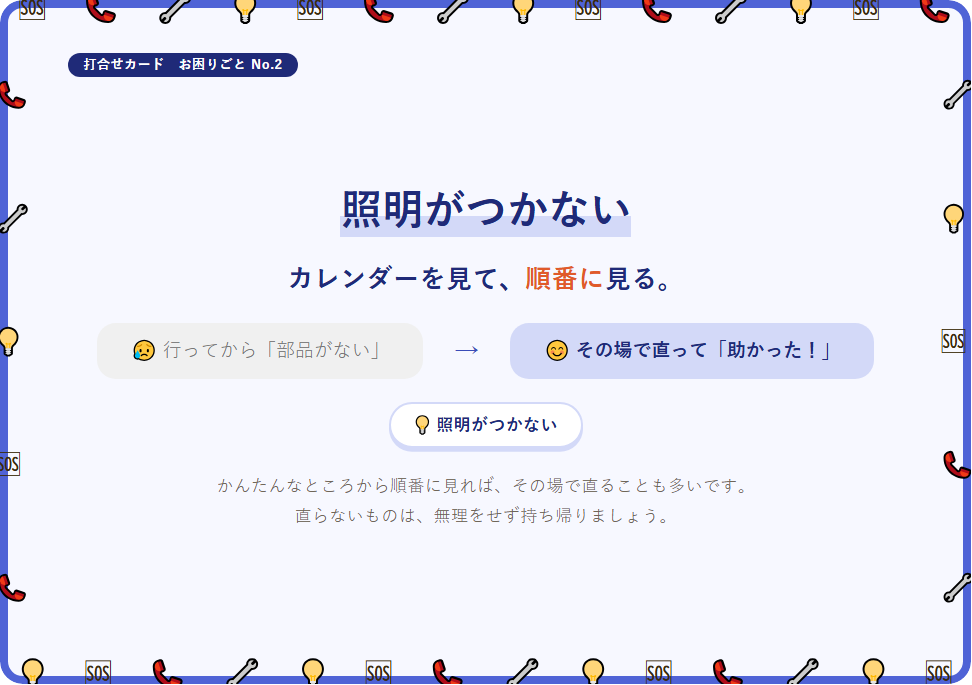
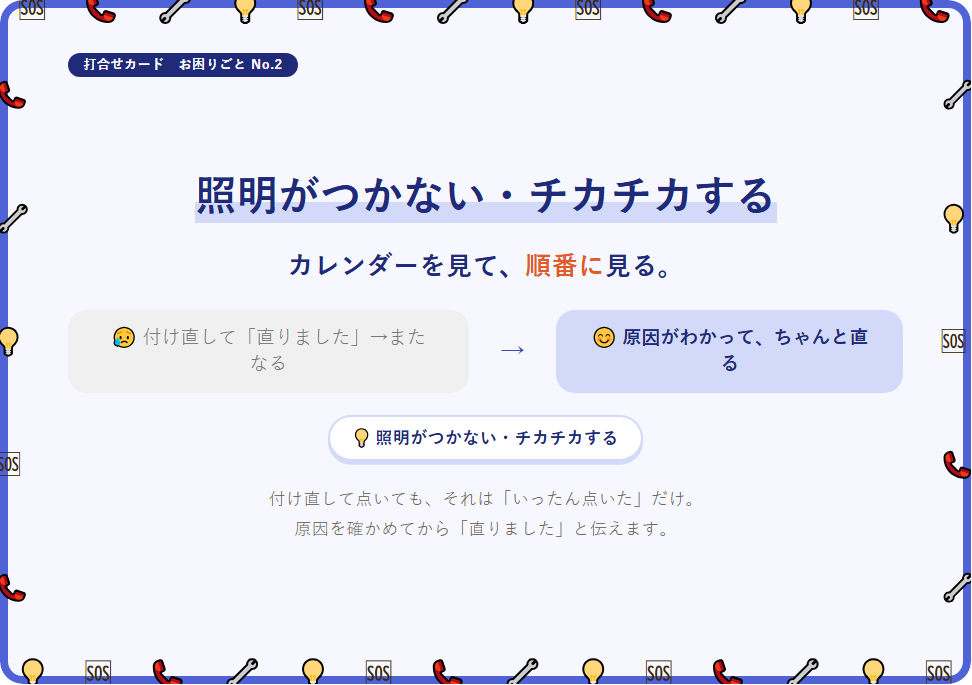
その場しのぎではなく安心を：サービスNo.4に原因確認と正直な伝え方、お困りごと照明にチカチカの確かめ方
Claude-Session: https://claude.ai/code/session_01SZNrdcyrN7aKEt1o21LvYk

Changed region(s): [[0.1852, 0.2453, 0.9259, 0.7971], [0.0926, 0.4599, 0.4321, 0.5518]]

diff --git a/tools/cards-data.js b/tools/cards-data.js
@@ -783,16 +783,16 @@ module.exports = [
   why:{ msg:'いちばん大事なのは、<b>現状確認</b>。',
         ng:'😥 よく見ずに「買い替えですね」', ok:'😊「ちゃんと見てくれた」',
         chips:['👀 現状確認','🔧 修理か買い替えか','💬 質問','📝 提案（見積り）'],
-        one:'まず今の状態をしっかり見る。ここがずれると、提案も見積りもずれます。<br>分からないときは、その場ですぐ相談。' },
+        one:'その場しのぎではなく、「ヤハタデンキなら安心」と思ってもらうこと。<br>そのために、まず今の状態と原因をしっかり確かめます。' },
   how:{ h:'お困りごと訪問の流れ',
-        roles:[ {ic:'👀',n:'現状確認',t:'今の状態を見る。分からないときは、すぐ相談',bg:'#d9ebfa',k:'#164a7a'},
+        roles:[ {ic:'👀',n:'現状確認',t:'原因まで確かめる。「直りました」は原因がわかってから',bg:'#d9ebfa',k:'#164a7a'},
                 {ic:'🔧',n:'修理か買い替えか',t:'直せるか。年数・部品・費用で考える',bg:'#dcefd2',k:'#2b5a1e'},
                 {ic:'💬',n:'質問',t:'使い方・使う時間・困っていることを聞く',bg:'#fff1c2',k:'#7a4d10'},
                 {ic:'📝',n:'提案（見積り）',t:'お客様に合うものを、見積りで出す',bg:'#e8dcf7',k:'#4a2a78'},
                 {ic:'🤝',n:'成約',t:'決まったら、見積書で成約に',bg:'#fde2cc',k:'#7a3a0e'} ] },
   what:{ h:'毎回やること',
         memo:['📅 伺う前に、カレンダーを見る','事務が受けた内容を確かめてから出発。'],
-        vals:['📞 分からないことは、その場で相談','📸 型番の銘板を写真に残す','📝 日報に、症状と対応を書く'] }
+        vals:['🙏 原因がわからないときは正直に伝えて、すぐ相談','📝 日報は「原因」と「やったこと」を分けて書く','📸 型番の銘板を写真に残す'] }
 },
 { no:1, who:'trouble', title:'テレビがつかない・映らない',
   why:{ msg:'カレンダーを見て、<b>順番に</b>見る。',
@@ -809,20 +809,20 @@ module.exports = [
                  {t:'✅ その場でできること',c:'leaf',items:['リモコンの電池・入力切替の直し','アンテナ線の差し直し・チャンネル設定']},
                  {t:'📋 持ち帰ること',c:'#b33',items:['電源が入らない → 修理か買い替えの見積','アンテナ・ブースター → 工事スタッフへ']} ] }
 },
-{ no:2, who:'trouble', title:'照明がつかない',
+{ no:2, who:'trouble', title:'照明がつかない・チカチカする',
   why:{ msg:'カレンダーを見て、<b>順番に</b>見る。',
-        ng:'😥 行ってから「部品がない」', ok:'😊 その場で直って「助かった！」',
-        chips:['💡 照明がつかない'],
-        one:'かんたんなところから順番に見れば、その場で直ることも多いです。<br>直らないものは、無理をせず持ち帰りましょう。' },
+        ng:'😥 付け直して「直りました」→またなる', ok:'😊 原因がわかって、ちゃんと直る',
+        chips:['💡 照明がつかない・チカチカする'],
+        one:'付け直して点いても、それは「いったん点いた」だけ。<br>原因を確かめてから「直りました」と伝えます。' },
   how:{ h:'現地で見る順番',
-        roles:[ {ic:'1⃣',n:'壁のスイッチ',t:'入れたままか',bg:'#d9ebfa',k:'#164a7a'},
-                {ic:'2⃣',n:'リモコン',t:'電池と、チャンネル（ほかの部屋と混ざっていないか）',bg:'#dcefd2',k:'#2b5a1e'},
-                {ic:'3⃣',n:'ブレーカー',t:'落ちていないか',bg:'#fff1c2',k:'#7a4d10'},
-                {ic:'4⃣',n:'器具',t:'何年目か（10年が目安）',bg:'#e8dcf7',k:'#4a2a78'} ] },
+        roles:[ {ic:'1⃣',n:'壁スイッチとリモコン',t:'スイッチは入れたままか。リモコンの電池とチャンネル',bg:'#d9ebfa',k:'#164a7a'},
+                {ic:'2⃣',n:'引掛シーリング',t:'ゆるみはないか。付け直して点いても、決めつけない',bg:'#dcefd2',k:'#2b5a1e'},
+                {ic:'3⃣',n:'器具の年数',t:'LEDも10年ほどで電源部が弱り、チカチカする',bg:'#fff1c2',k:'#7a4d10'},
+                {ic:'4⃣',n:'ブレーカー・配線',t:'配線の疑いがあるときは、工事スタッフへ',bg:'#e8dcf7',k:'#4a2a78'} ] },
   what:{ h:'確かめることと、その場の判断',
-        groups:[ {t:'📅 確かめること（カレンダー／その場で）',c:'#1f2a78',items:['全部の明かりか、その部屋だけか','壁のスイッチは入っているか','何年目か、チカチカしていたか']},
-                 {t:'✅ その場でできること',c:'leaf',items:['壁スイッチ・リモコンの電池・チャンネル合わせ','電球やグローの交換']},
-                 {t:'📋 持ち帰ること',c:'#b33',items:['器具の故障 → 買い替えの見積','配線・引掛シーリング → 工事スタッフへ（資格が要る）']} ] }
+        groups:[ {t:'📅 確かめること（カレンダー／その場で）',c:'#1f2a78',items:['全部の明かりか、その部屋だけか','いつから、どのくらいの間隔でチカチカするか','何年目の器具か']},
+                 {t:'✅ その場でできること',c:'leaf',items:['壁スイッチ・リモコンの電池・チャンネル合わせ','原因がわかった接触不良の直し']},
+                 {t:'📋 持ち帰ること',c:'#b33',items:['原因がはっきりしない → 正直に伝えて、すぐ相談','器具の寿命 → 買い替えの見積／配線 → 工事スタッフへ']} ] }
 },
 { no:3, who:'trouble', title:'エアコンが効かない・水がたれる',
   why:{ msg:'カレンダーを見て、<b>順番に</b>見る。',

diff --git a/card-trouble-2.html b/card-trouble-2.html
@@ -3,9 +3,9 @@
 <head>
 <meta charset="UTF-8">
 <meta name="viewport" content="width=1010">
-<title>打合せカード2 照明がつかない｜ヤハタ電機商会</title>
+<title>打合せカード2 照明がつかない・チカチカする｜ヤハタ電機商会</title>
 <meta property="og:type" content="website">
-<meta property="og:title" content="お困りごとカード　照明がつかない">
+<meta property="og:title" content="お困りごとカード　照明がつかない・チカチカする">
 <meta property="og:description" content="カレンダーを見て、順番に見る。">
 <meta property="og:image" content="https://yahatadennki.github.io/report/img/card-trouble-2.png">
 <meta property="og:url" content="https://yahatadennki.github.io/report/card-trouble-2.html">
@@ -100,11 +100,11 @@
 
   <div class="top"><span class="no">打合せカード　お困りごと No.2</span><span></span></div>
   <div class="front">
-    <h1><em>照明がつかない</em></h1>
+    <h1><em>照明がつかない・チカチカする</em></h1>
     <p class="msg">カレンダーを見て、<b>順番に</b>見る。</p>
-    <div class="vs"><div class="ng">😥 行ってから「部品がない」</div><div class="ar">→</div><div class="ok">😊 その場で直って「助かった！」</div></div>
-    <div class="chips"><span>💡 照明がつかない</span></div>
-    <p class="one">かんたんなところから順番に見れば、その場で直ることも多いです。<br>直らないものは、無理をせず持ち帰りましょう。</p>
+    <div class="vs"><div class="ng">😥 付け直して「直りました」→またなる</div><div class="ar">→</div><div class="ok">😊 原因がわかって、ちゃんと直る</div></div>
+    <div class="chips"><span>💡 照明がつかない・チカチカする</span></div>
+    <p class="one">付け直して点いても、それは「いったん点いた」だけ。<br>原因を確かめてから「直りました」と伝えます。</p>
   </div>
 </div>
 
@@ -115,21 +115,21 @@
   <div class="col-f l"><span>📞</span><span>🔧</span><span>💡</span><span>🆘</span><span>📞</span></div>
   <div class="col-f r"><span>🔧</span><span>💡</span><span>🆘</span><span>📞</span><span>🔧</span></div>
 
-  <div class="top"><span class="no">打合せカード　お困りごと No.2　照明がつかない</span><span></span></div>
+  <div class="top"><span class="no">打合せカード　お困りごと No.2　照明がつかない・チカチカする</span><span></span></div>
   <div class="back">
     <div class="box">
       <h2>現地で見る順番</h2>
-      <div class="roles"><div class="role" style="--rc:#d9ebfa;--rk:#164a7a"><span class="e">1⃣</span><div><div class="n">壁のスイッチ</div><div class="x">入れたままか</div></div></div><div class="role" style="--rc:#dcefd2;--rk:#2b5a1e"><span class="e">2⃣</span><div><div class="n">リモコン</div><div class="x">電池と、チャンネル（ほかの部屋と混ざっていないか）</div></div></div><div class="role" style="--rc:#fff1c2;--rk:#7a4d10"><span class="e">3⃣</span><div><div class="n">ブレーカー</div><div class="x">落ちていないか</div></div></div><div class="role" style="--rc:#e8dcf7;--rk:#4a2a78"><span class="e">4⃣</span><div><div class="n">器具</div><div class="x">何年目か（10年が目安）</div></div></div></div>
+      <div class="roles"><div class="role" style="--rc:#d9ebfa;--rk:#164a7a"><span class="e">1⃣</span><div><div class="n">壁スイッチとリモコン</div><div class="x">スイッチは入れたままか。リモコンの電池とチャンネル</div></div></div><div class="role" style="--rc:#dcefd2;--rk:#2b5a1e"><span class="e">2⃣</span><div><div class="n">引掛シーリング</div><div class="x">ゆるみはないか。付け直して点いても、決めつけない</div></div></div><div class="role" style="--rc:#fff1c2;--rk:#7a4d10"><span class="e">3⃣</span><div><div class="n">器具の年数</div><div class="x">LEDも10年ほどで電源部が弱り、チカチカする</div></div></div><div class="role" style="--rc:#e8dcf7;--rk:#4a2a78"><span class="e">4⃣</span><div><div class="n">ブレーカー・配線</div><div class="x">配線の疑いがあるときは、工事スタッフへ</div></div></div></div>
 
     </div>
     <div class="box">
       <h2>確かめることと、その場の判断</h2>
       <p class="gt" style="color:#1f2a78">📅 確かめること（カレンダー／その場で）</p>
-      <ul><li>全部の明かりか、その部屋だけか</li><li>壁のスイッチは入っているか</li><li>何年目か、チカチカしていたか</li></ul>
+      <ul><li>全部の明かりか、その部屋だけか</li><li>いつから、どのくらいの間隔でチカチカするか</li><li>何年目の器具か</li></ul>
       <p class="gt" style="color:var(--leaf)">✅ その場でできること</p>
-      <ul><li>壁スイッチ・リモコンの電池・チャンネル合わせ</li><li>電球やグローの交換</li></ul>
+      <ul><li>壁スイッチ・リモコンの電池・チャンネル合わせ</li><li>原因がわかった接触不良の直し</li></ul>
       <p class="gt" style="color:#b33">📋 持ち帰ること</p>
-      <ul><li>器具の故障 → 買い替えの見積</li><li>配線・引掛シーリング → 工事スタッフへ（資格が要る）</li></ul>
+      <ul><li>原因がはっきりしない → 正直に伝えて、すぐ相談</li><li>器具の寿命 → 買い替えの見積／配線 → 工事スタッフへ</li></ul>
     </div>
   </div>
 </div>

diff --git a/card-service-4.html b/card-service-4.html
@@ -104,7 +104,7 @@
     <p class="msg">いちばん大事なのは、<b>現状確認</b>。</p>
     <div class="vs"><div class="ng">😥 よく見ずに「買い替えですね」</div><div class="ar">→</div><div class="ok">😊「ちゃんと見てくれた」</div></div>
     <div class="chips"><span>👀 現状確認</span><span>🔧 修理か買い替えか</span><span>💬 質問</span><span>📝 提案（見積り）</span></div>
-    <p class="one">まず今の状態をしっかり見る。ここがずれると、提案も見積りもずれます。<br>分からないときは、その場ですぐ相談。</p>
+    <p class="one">その場しのぎではなく、「ヤハタデンキなら安心」と思ってもらうこと。<br>そのために、まず今の状態と原因をしっかり確かめます。</p>
   </div>
 </div>
 
@@ -119,13 +119,13 @@
   <div class="back">
     <div class="box">
       <h2>お困りごと訪問の流れ</h2>
-      <div class="roles sm"><div class="role" style="--rc:#d9ebfa;--rk:#164a7a"><span class="e">👀</span><div><div class="n">現状確認</div><div class="x">今の状態を見る。分からないときは、すぐ相談</div></div></div><div class="role" style="--rc:#dcefd2;--rk:#2b5a1e"><span class="e">🔧</span><div><div class="n">修理か買い替えか</div><div class="x">直せるか。年数・部品・費用で考える</div></div></div><div class="role" style="--rc:#fff1c2;--rk:#7a4d10"><span class="e">💬</span><div><div class="n">質問</div><div class="x">使い方・使う時間・困っていることを聞く</div></div></div><div class="role" style="--rc:#e8dcf7;--rk:#4a2a78"><span class="e">📝</span><div><div class="n">提案（見積り）</div><div class="x">お客様に合うものを、見積りで出す</div></div></div><div class="role" style="--rc:#fde2cc;--rk:#7a3a0e"><span class="e">🤝</span><div><div class="n">成約</div><div class="x">決まったら、見積書で成約に</div></div></div></div>
+      <div class="roles sm"><div class="role" style="--rc:#d9ebfa;--rk:#164a7a"><span class="e">👀</span><div><div class="n">現状確認</div><div class="x">原因まで確かめる。「直りました」は原因がわかってから</div></div></div><div class="role" style="--rc:#dcefd2;--rk:#2b5a1e"><span class="e">🔧</span><div><div class="n">修理か買い替えか</div><div class="x">直せるか。年数・部品・費用で考える</div></div></div><div class="role" style="--rc:#fff1c2;--rk:#7a4d10"><span class="e">💬</span><div><div class="n">質問</div><div class="x">使い方・使う時間・困っていることを聞く</div></div></div><div class="role" style="--rc:#e8dcf7;--rk:#4a2a78"><span class="e">📝</span><div><div class="n">提案（見積り）</div><div class="x">お客様に合うものを、見積りで出す</div></div></div><div class="role" style="--rc:#fde2cc;--rk:#7a3a0e"><span class="e">🤝</span><div><div class="n">成約</div><div class="x">決まったら、見積書で成約に</div></div></div></div>
 
     </div>
     <div class="box">
       <h2>毎回やること</h2>
       <div class="memo"><b>📅 伺う前に、カレンダーを見る</b><p>事務が受けた内容を確かめてから出発。</p></div>
-      <ul class="vals"><li>📞 分からないことは、その場で相談</li><li>📸 型番の銘板を写真に残す</li><li>📝 日報に、症状と対応を書く</li></ul>
+      <ul class="vals"><li>🙏 原因がわからないときは正直に伝えて、すぐ相談</li><li>📝 日報は「原因」と「やったこと」を分けて書く</li><li>📸 型番の銘板を写真に残す</li></ul>
 
     </div>
   </div>

diff --git a/cards.html b/cards.html
@@ -113,7 +113,7 @@
     <h2><span class="ic">🆘</span>お困りごと<span class="cnt">8枚</span></h2>
     <div class="list">
       <a class="ci" href="card-trouble-1.html"><span class="n">No.1</span><span class="t">テレビがつかない・映らない</span></a>
-      <a class="ci" href="card-trouble-2.html"><span class="n">No.2</span><span class="t">照明がつかない</span></a>
+      <a class="ci" href="card-trouble-2.html"><span class="n">No.2</span><span class="t">照明がつかない・チカチカする</span></a>
       <a class="ci" href="card-trouble-3.html"><span class="n">No.3</span><span class="t">エアコンが効かない・水がたれる</span></a>
       <a class="ci" href="card-trouble-4.html"><span class="n">No.4</span><span class="t">冷蔵庫が冷えない</span></a>
       <a class="ci" href="card-trouble-5.html"><span class="n">No.5</span><span class="t">洗濯機が動かない・水が流れない</span></a>
